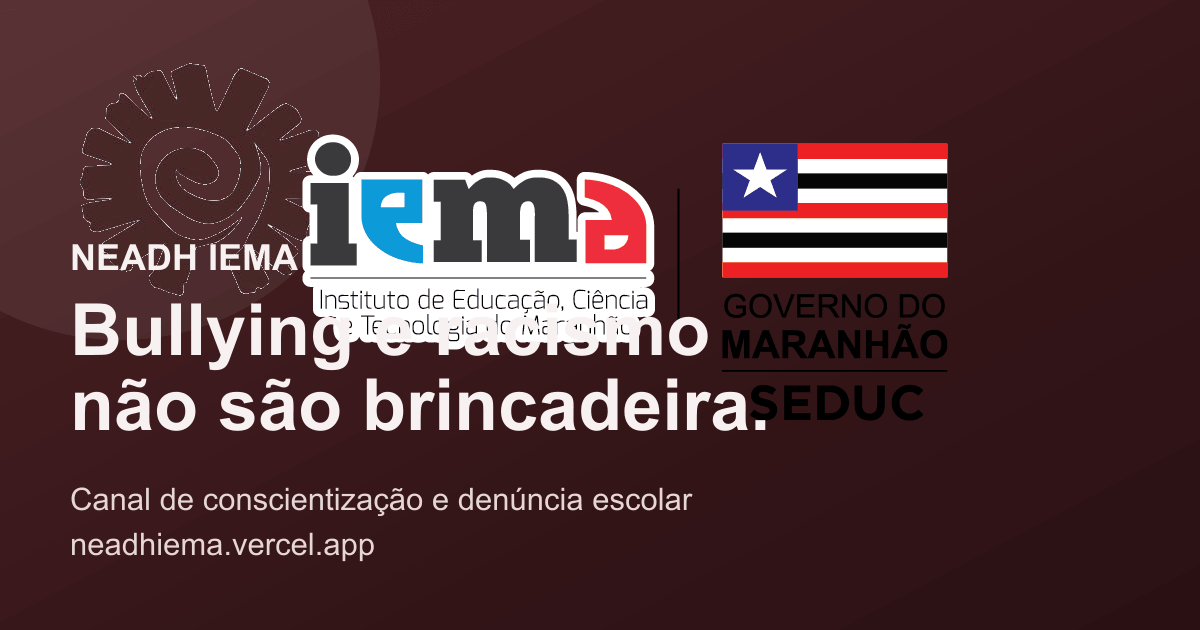
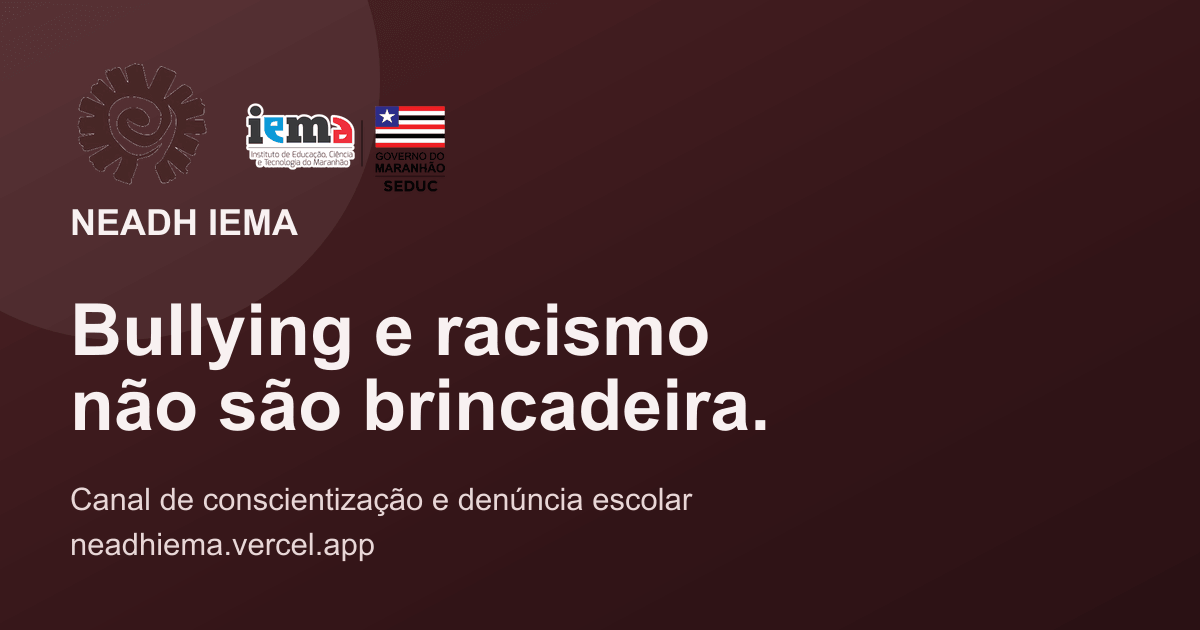
correção og preview

Changed region(s): [[0.0617, 0.1206, 0.555, 0.573], [0.5858, 0.2111, 0.8017, 0.6635]]

diff --git a/README.md b/README.md
@@ -1,2 +1,27 @@
 # neadh_iema
 Núcleo de Educação Antirracista e em Direitos Humanos
+
+## Backend de denúncias (MongoDB)
+O formulário envia para `POST /api/reports` (função serverless) e salva no MongoDB.
+
+## Painel do diretor
+Acesse `admin.html` para visualizar as denúncias enviadas.
+O painel funciona como PWA instalável (app) em navegadores compatíveis.
+
+## Variáveis de ambiente
+Crie as variáveis no Vercel (ou em `.env` local):
+
+- `MONGODB_URI`: string de conexão do MongoDB Atlas.
+- `MONGODB_DB` (opcional): nome do banco. Padrão: `neadh_iema`.
+- `MONGODB_COLLECTION` (opcional): nome da coleção. Padrão: `denuncias`.
+- `ADMIN_PANEL_KEY`: chave secreta para acessar listagem no painel administrativo.
+
+## Scripts
+- `npm install`
+- `npm run optimize:images`
+- `node scripts/generate-og-cover.mjs`
+
+## PWA do painel
+Para instalar o app do painel:
+1. Acesse `https://neadhiema.vercel.app/admin.html`.
+2. Clique em `Instalar app` (quando disponível) ou use a opção de instalar do navegador.
